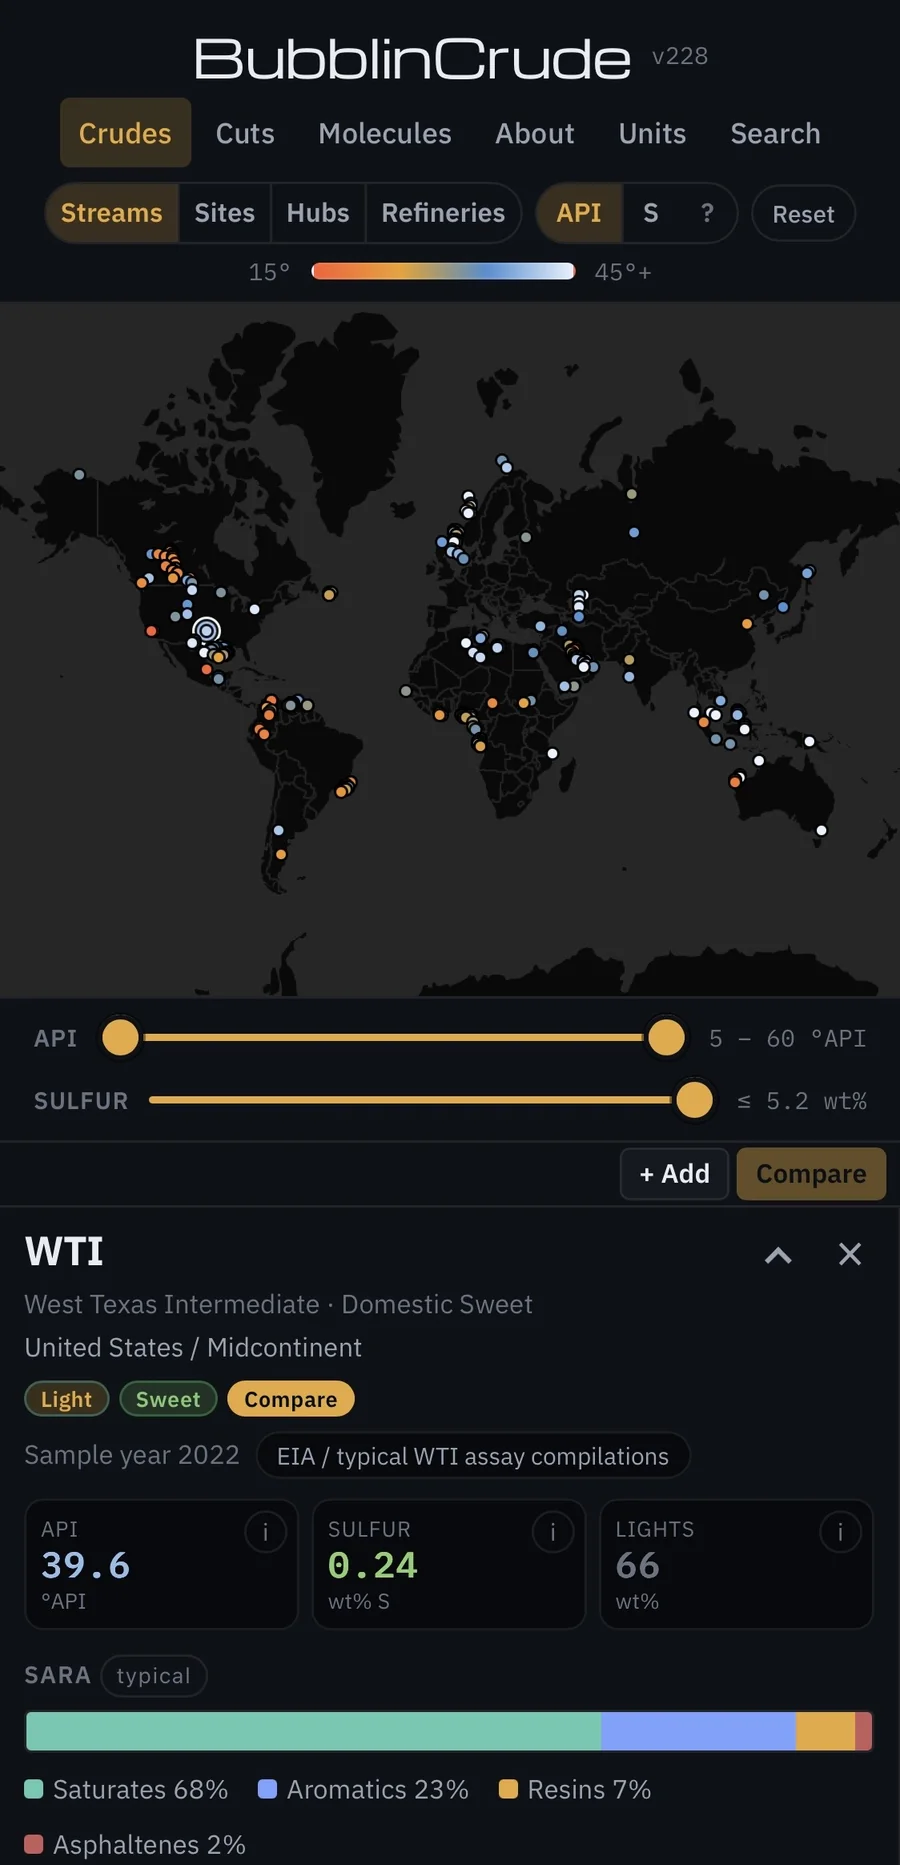
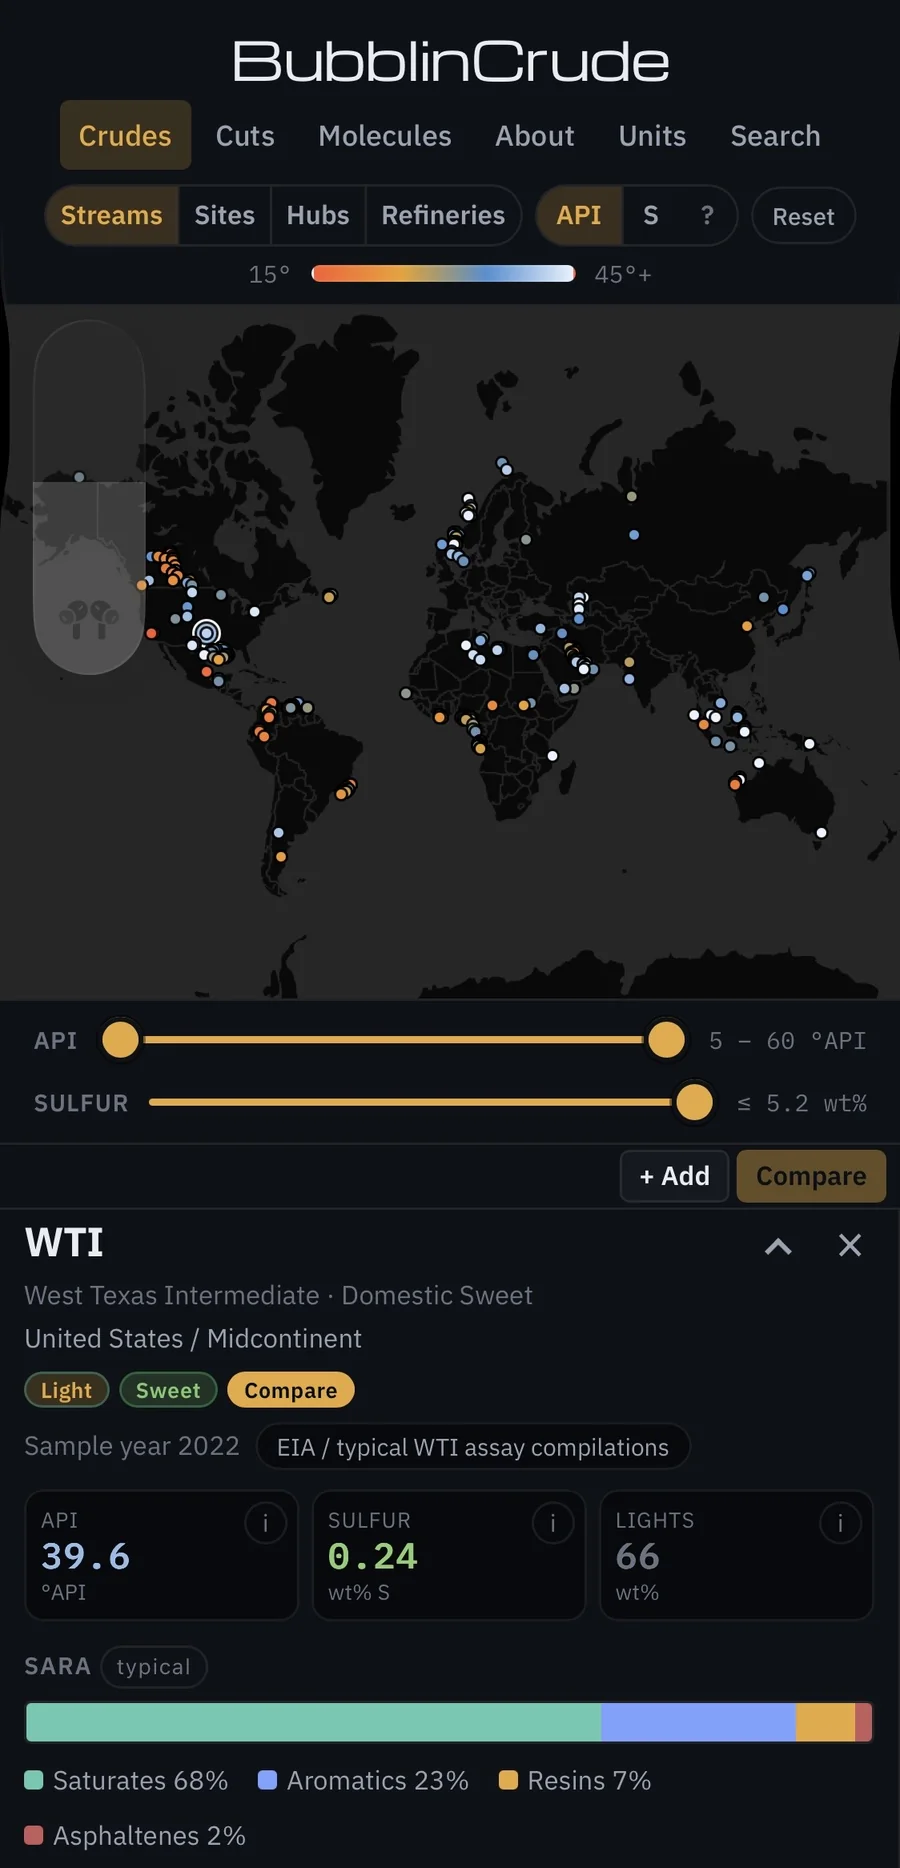
Refresh BubblinCrude hub card without the version badge.

diff --git a/apps.js b/apps.js
@@ -6,9 +6,9 @@ export const APPS = [
     id: "bubblincrude-app",
     name: "BubblinCrude",
     href: "https://bubblincrude.markmaga.com",
-    img: "images/ss-bubblincrude.webp",
+    img: "images/ss-bubblincrude.webp?v=2",
     imgW: 900,
-    imgH: 1865,
+    imgH: 1868,
     hint: "Global crude streams · filter, assay, compare WTI, Merey-16, Boscan",
   },
   {

diff --git a/sphere.js b/sphere.js
@@ -3,7 +3,7 @@
  * 16 live equator cards; extras sit on the inner ring. Ghost latitude bands.
  */
 import * as THREE from "./vendor/three.module.min.js";
-import { APPS } from "./apps.js?v=11";
+import { APPS } from "./apps.js?v=12";
 
 const REAL = 16;
 const EQUATOR_SLOT_DEG = 360 / REAL;

diff --git a/index.html b/index.html
@@ -281,7 +281,7 @@
       });
     })();
   </script>
-  <script type="module" src="hub.js?v=14"></script>
+  <script type="module" src="hub.js?v=15"></script>
   <script>
     window.va = window.va || function () { (window.vaq = window.vaq || []).push(arguments); };
   </script>

diff --git a/hub.js b/hub.js
@@ -1,4 +1,4 @@
-import { APPS } from "./apps.js?v=11";
+import { APPS } from "./apps.js?v=12";
 
 const MODE_KEY = "markmaga-hub-mode";
 
